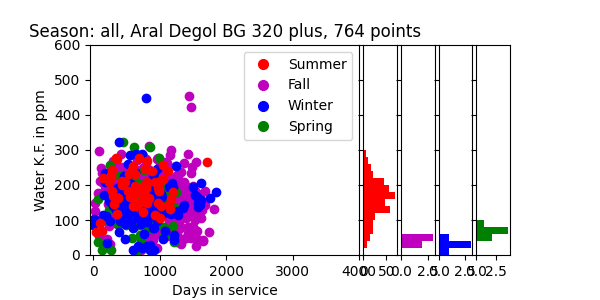
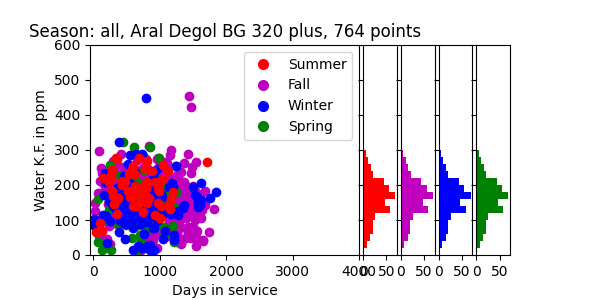
Sep 29, 2022, 6:51 PM

Changed region(s): [[0.66, 0.51, 0.87, 0.93]]

diff --git a/project/dataset.py b/project/dataset.py
@@ -255,29 +255,29 @@ class Dataset:
                         
                     ax_histy_summer.hist(d1["y_values"], bins=bins, color="red", orientation='horizontal')
 
-                if len(d2["x_values"]) > 0:
-                    xymax = max(np.max(np.abs(d2["x_values"])), np.max(np.abs(d2["y_values"])))
+                if len(d1["x_values"]) > 0:
+                    xymax = max(np.max(np.abs(d1["x_values"])), np.max(np.abs(d1["y_values"])))
                     lim = (int(xymax/binwidth) + 1) * binwidth
 
                     bins = np.arange(-lim, lim + binwidth, binwidth)
                         
-                    ax_histy_fall.hist(d2["y_values"], bins=bins, color="m", orientation='horizontal')
+                    ax_histy_fall.hist(d1["y_values"], bins=bins, color="m", orientation='horizontal')
 
-                if len(d3["x_values"]) > 0:
-                    xymax = max(np.max(np.abs(d3["x_values"])), np.max(np.abs(d3["y_values"])))
+                if len(d1["x_values"]) > 0:
+                    xymax = max(np.max(np.abs(d1["x_values"])), np.max(np.abs(d1["y_values"])))
                     lim = (int(xymax/binwidth) + 1) * binwidth
 
                     bins = np.arange(-lim, lim + binwidth, binwidth)
                         
-                    ax_histy_winter.hist(d3["y_values"], bins=bins, color="blue", orientation='horizontal')
+                    ax_histy_winter.hist(d1["y_values"], bins=bins, color="blue", orientation='horizontal')
 
-                if len(d4["x_values"]) > 0:
-                    xymax = max(np.max(np.abs(d4["x_values"])), np.max(np.abs(d4["y_values"])))
+                if len(d1["x_values"]) > 0:
+                    xymax = max(np.max(np.abs(d1["x_values"])), np.max(np.abs(d1["y_values"])))
                     lim = (int(xymax/binwidth) + 1) * binwidth
 
                     bins = np.arange(-lim, lim + binwidth, binwidth)
                         
-                    ax_histy_spring.hist(d4["y_values"], bins=bins, color="green", orientation='horizontal')
+                    ax_histy_spring.hist(d1["y_values"], bins=bins, color="green", orientation='horizontal')
 
 
 
